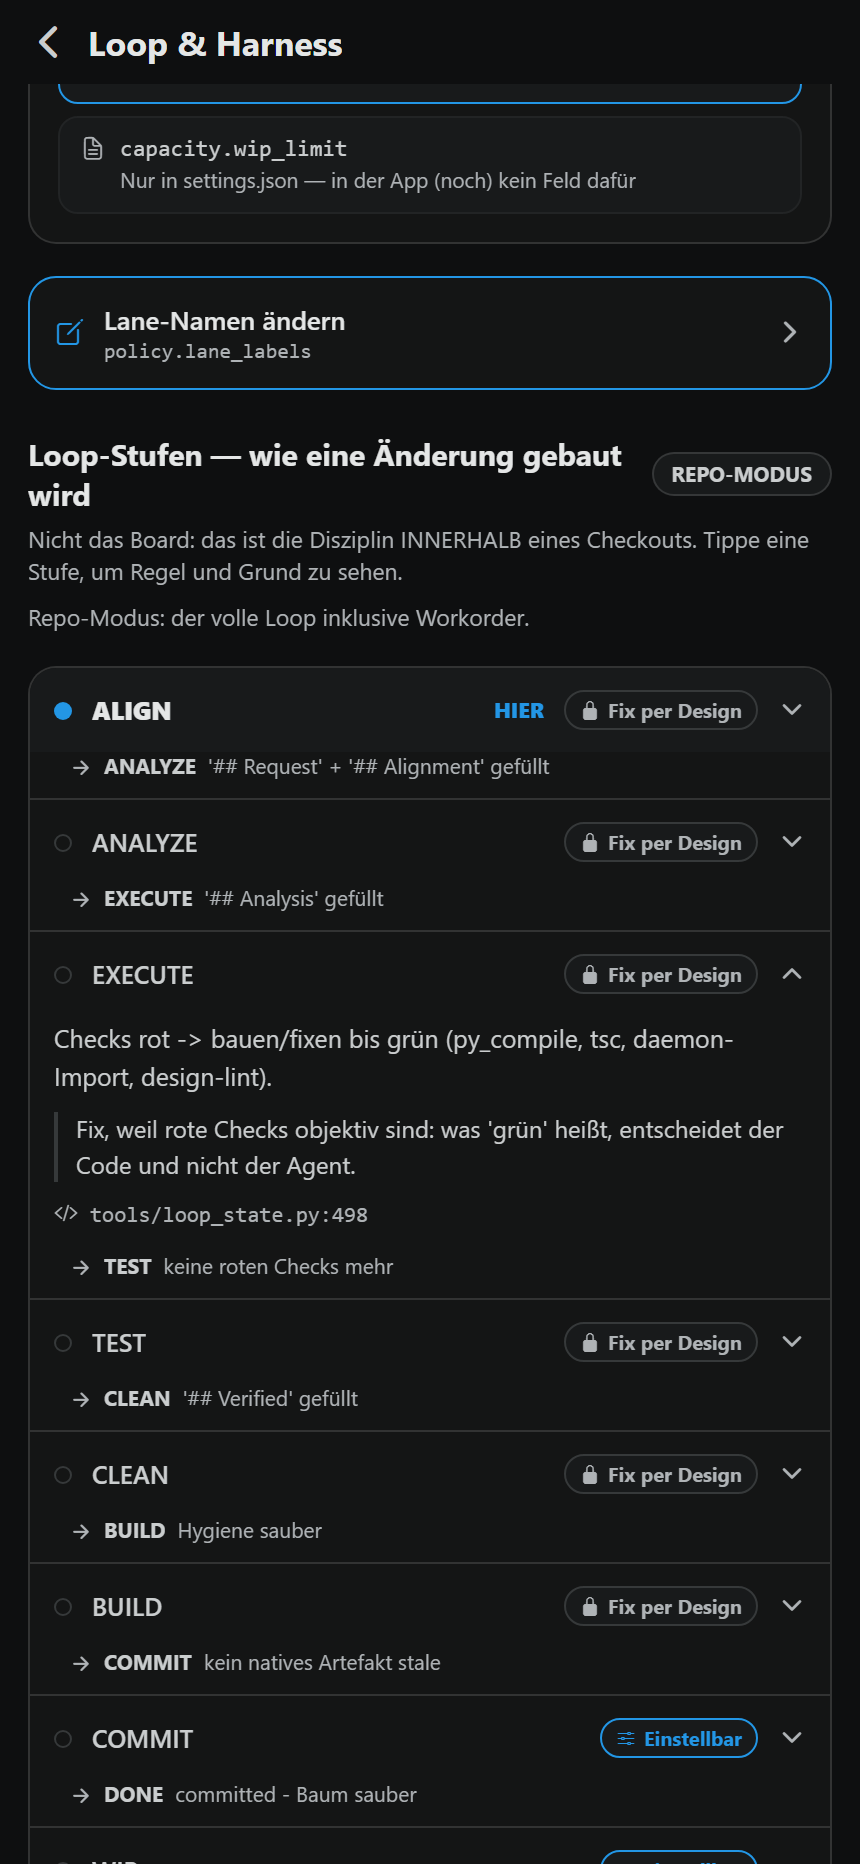
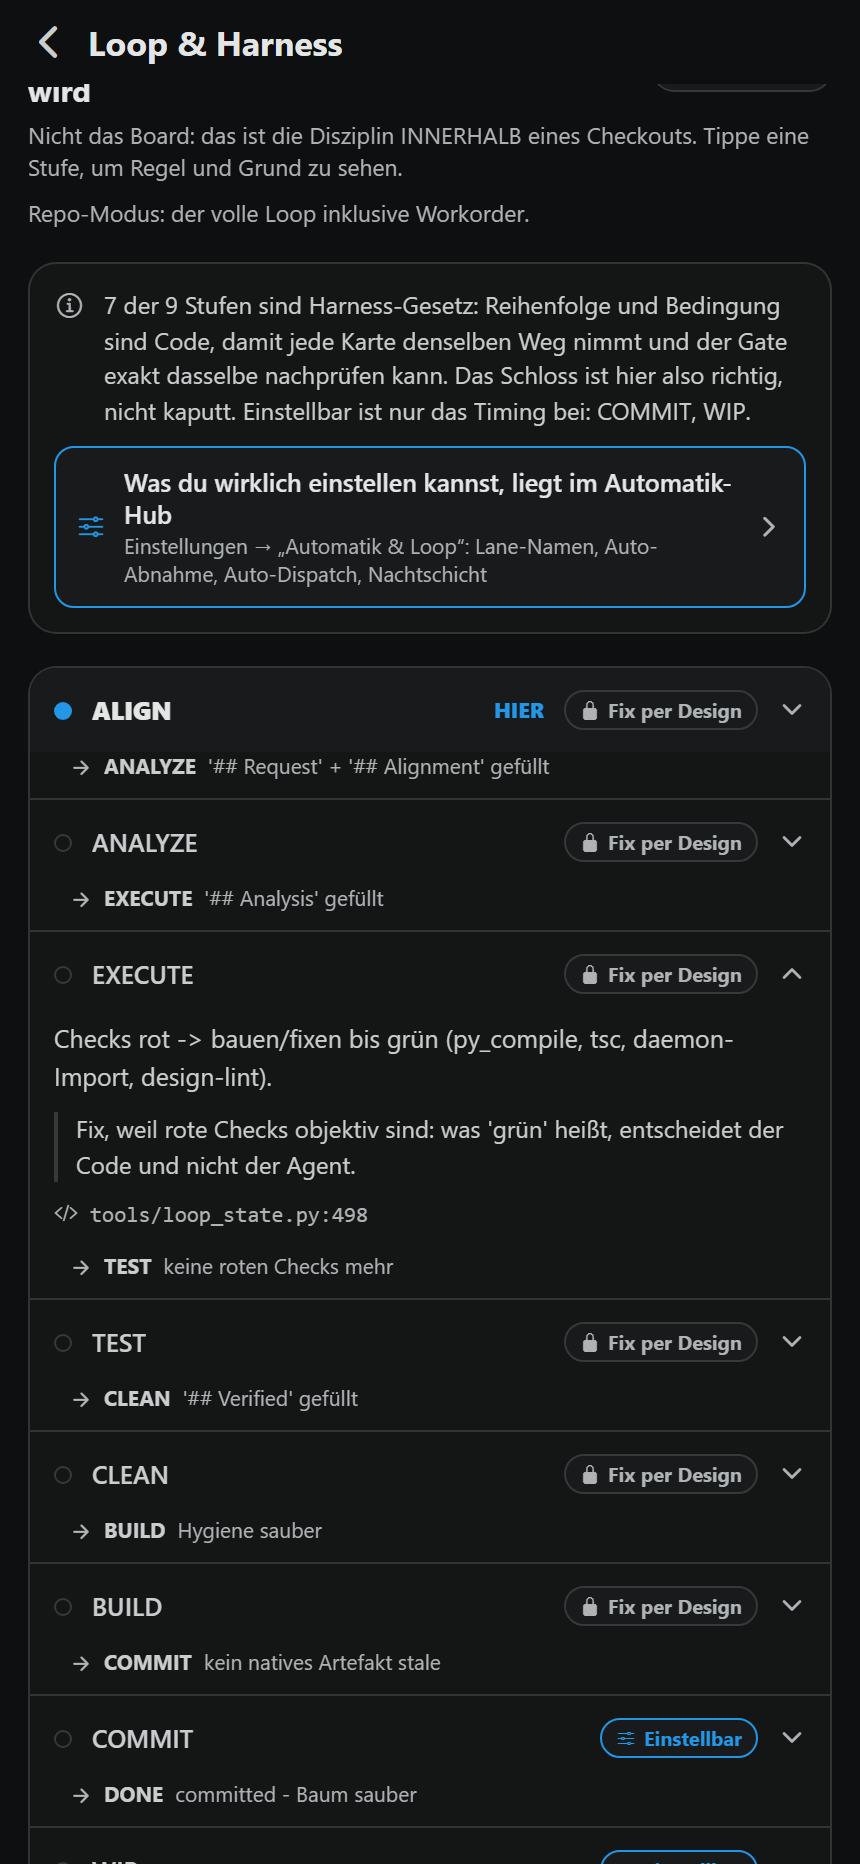
fix(loopmap): answer "why is this whole section locked?" once, at the section
Follow-up to 0dd5a6b, which gave every NODE a reason. That was not enough: the
owner reads the SECTION, sees a column of padlocks, and concludes the screen is
read-only before he taps anything. The build-loop section now answers it up
front and points at the screen that actually holds the knobs.

THE PREMISE THIS STARTED FROM WAS WRONG, AND CHECKING IT IS THE POINT.
The request said the repo-mode loop is "zu 100% fix (kein einziger
policy-Knoten)" and asked for a banner saying so. loop_state.machine() in repo
mode returns 7 fixed and TWO policy states - COMMIT and WIP, both governed by
env.SWARM_WIP_MINUTES. The screenshot the request was based on lists
ALIGN..BUILD, which ARE all fixed; COMMIT and WIP sit just below that fold.
Shipping the banner as worded would have put a false claim on the one screen
whose entire job is to say truthfully what is fixed.

So the note is DERIVED, not written down: the counts and the exception list come
off `kind` in the payload ("7 der 9 Stufen sind Harness-Gesetz ... Einstellbar
ist nur das Timing bei: COMMIT, WIP"). A hand-typed sentence would have been
wrong today and wrong again the next time a state changes kind. Both variants
exist - loopmap.buildAllFixedNote covers a mode that really is all-fixed,
because inventing an exception that is not there is the same defect mirrored.

WHERE THE EDITABLE SETTINGS ACTUALLY ARE (the other half of the request):
/automation, titled "Automatik & Loop", reached via Einstellungen (settings.tsx
[…]

Changed region(s): [[0.0302, 0.0311, 0.9674, 0.3423], [0.8163, 0.0622, 0.8767, 0.0933], [0.907, 0.0622, 0.9372, 0.0933]]

diff --git a/app/src/app/loopmap.tsx b/app/src/app/loopmap.tsx
@@ -229,6 +229,9 @@ export default function LoopMapScreen() {
 
   const build = data?.build;
   const states = build?.states ?? [];
+  // which stages are actually adjustable — read off `kind`, so the section note
+  // above the list states the real split instead of a remembered one
+  const policyStates = states.filter((s) => s.kind === "policy");
   // OUTGOING edges per state — NOT states[i] -> states[i+1].
   // The list order is declaration order, which is not the transition order: in
   // card mode the real edges are EXECUTE->CLEAN, WIP->COMMIT, COMMIT->DONE,
@@ -359,6 +362,54 @@ export default function LoopMapScreen() {
               {build.mode_note}
             </Text>
           ) : null}
+
+          {/* WHY IS NEARLY EVERY ROW BELOW LOCKED?
+              Per-row reasons were not enough: the owner reads the SECTION, sees
+              a column of padlocks, and concludes the screen is read-only before
+              he taps anything. So the section answers it once, up front, and
+              points at the screen that does hold the knobs.
+
+              The counts are DERIVED from the payload, never written down. A
+              hand-typed "all stages are fixed" would already be wrong today
+              (COMMIT and WIP are policy nodes governed by SWARM_WIP_MINUTES)
+              and would go wrong again the next time a state changes kind - and
+              a screen whose job is to say what is fixed cannot afford to state
+              that falsely. */}
+          {states.length ? (
+            <View style={{ backgroundColor: t.surface1, borderColor: t.glassBorder, borderWidth: 1,
+              borderRadius: 14, padding: 12, gap: 9 }}>
+              <View style={{ flexDirection: "row", alignItems: "flex-start", gap: 9 }}>
+                <Ionicons name="information-circle-outline" size={16} color={t.txtTertiary}
+                  style={{ marginTop: 1 }} />
+                <Text style={{ color: t.txtSecondary, fontSize: 12, lineHeight: 17.5, flex: 1 }}>
+                  {policyStates.length
+                    ? tr("loopmap.buildFixedNote", {
+                        fixed: states.length - policyStates.length, total: states.length,
+                        policy: policyStates.map((s) => s.key).join(", "),
+                      })
+                    : tr("loopmap.buildAllFixedNote", { total: states.length })}
+                </Text>
+              </View>
+              {/* the pointer the screen was missing: the knobs are real, they
+                  are just not on this page */}
+              <Pressable onPress={openHub}
+                style={{ flexDirection: "row", alignItems: "center", gap: 9, backgroundColor: t.surface2,
+                  borderColor: t.accent, borderWidth: 1, borderRadius: 10, paddingHorizontal: 10,
+                  paddingVertical: 9 }}>
+                <Ionicons name="options-outline" size={15} color={t.accent} />
+                <View style={{ flex: 1 }}>
+                  <Text style={{ color: t.txtPrimary, fontSize: 12.5, fontWeight: "600" }}>
+                    {tr("loopmap.editElsewhere")}
+                  </Text>
+                  <Text style={{ color: t.txtTertiary, fontSize: 10.5, marginTop: 1 }}>
+                    {tr("loopmap.editElsewhereWhere")}
+                  </Text>
+                </View>
+                <Ionicons name="chevron-forward" size={15} color={t.txtTertiary} />
+              </Pressable>
+            </View>
+          ) : null}
+
           <View style={{ backgroundColor: t.surface1, borderColor: t.glassBorder, borderWidth: 1,
             borderRadius: 14, overflow: "hidden" }}>
             {states.map((s, i) => {

diff --git a/app/src/i18n/dict/screens.ts b/app/src/i18n/dict/screens.ts
@@ -349,6 +349,27 @@ export const screens: Dict = {
     de: "Nicht das Board: das ist die Disziplin INNERHALB eines Checkouts. Tippe eine Stufe, um Regel und Grund zu sehen.",
     en: "Not the board: this is the discipline INSIDE one checkout. Tap a stage for its rule and the reason behind it.",
   },
+  // The section-level answer to "why is everything here locked?". {fixed}/{total}
+  // and {policy} are filled from the payload, so the sentence cannot drift from
+  // the machine it describes. Both variants exist because a mode CAN be
+  // all-fixed (and claiming an exception that isn't there is the same defect in
+  // the other direction).
+  "loopmap.buildFixedNote": {
+    de: "{fixed} der {total} Stufen sind Harness-Gesetz: Reihenfolge und Bedingung sind Code, damit jede Karte denselben Weg nimmt und der Gate exakt dasselbe nachprüfen kann. Das Schloss ist hier also richtig, nicht kaputt. Einstellbar ist nur das Timing bei: {policy}.",
+    en: "{fixed} of the {total} stages are harness law: order and condition are code, so every card takes the same path and the gate can re-check exactly that. The padlock here is correct, not broken. Only the timing is adjustable, on: {policy}.",
+  },
+  "loopmap.buildAllFixedNote": {
+    de: "Alle {total} Stufen sind Harness-Gesetz: Reihenfolge und Bedingung sind Code, damit jede Karte denselben Weg nimmt und der Gate exakt dasselbe nachprüfen kann. Das Schloss ist hier also richtig, nicht kaputt — an diesem Abschnitt gibt es bewusst nichts einzustellen.",
+    en: "All {total} stages are harness law: order and condition are code, so every card takes the same path and the gate can re-check exactly that. The padlock here is correct, not broken — there is deliberately nothing to set in this section.",
+  },
+  "loopmap.editElsewhere": {
+    de: "Was du wirklich einstellen kannst, liegt im Automatik-Hub",
+    en: "The settings you can actually change live in the automation hub",
+  },
+  "loopmap.editElsewhereWhere": {
+    de: "Einstellungen → „Automatik & Loop“: Lane-Namen, Auto-Abnahme, Auto-Dispatch, Nachtschicht",
+    en: "Settings → “Automation & loop”: lane names, auto-accept, auto-dispatch, night shift",
+  },
   "loopmap.secHarnessHint": {
     de: "Der Text, mit dem ein Agent gestartet wird — pro Oberfläche einer. Voll editierbar.",
     en: "The text an agent is started with — one per surface. Fully editable.",

diff --git a/shots/shoot_loopmap.py b/shots/shoot_loopmap.py
@@ -41,8 +41,12 @@ SHOTS = [
     ("loopmap2-lane",    (430, 932),  ["lane-backlog"], "top"),
     ("loopmap2-fixed",   (430, 932),  ["loopstate-EXECUTE"], "loopstate-EXECUTE"),
     ("loopmap2-policy",  (430, 932),  ["loopstate-COMMIT"], "loopstate-COMMIT"),
+    # the section-level "why is this locked / where ARE the knobs" note, which
+    # sits directly above the first stage row
+    ("loopmap2-buildnote", (430, 932), [], "loopstate-ALIGN"),
     ("loopmap2-laws",    (430, 932),  [], "bottom"),
     ("loopmap2-wide",    (1280, 1000), ["lane-backlog"], "top"),
+    ("loopmap2-wide-note", (1280, 1000), [], "loopstate-ALIGN"),
     ("loopmap2-wide-bottom", (1280, 1000), ["loopstate-COMMIT"], "bottom"),
 ]
 
